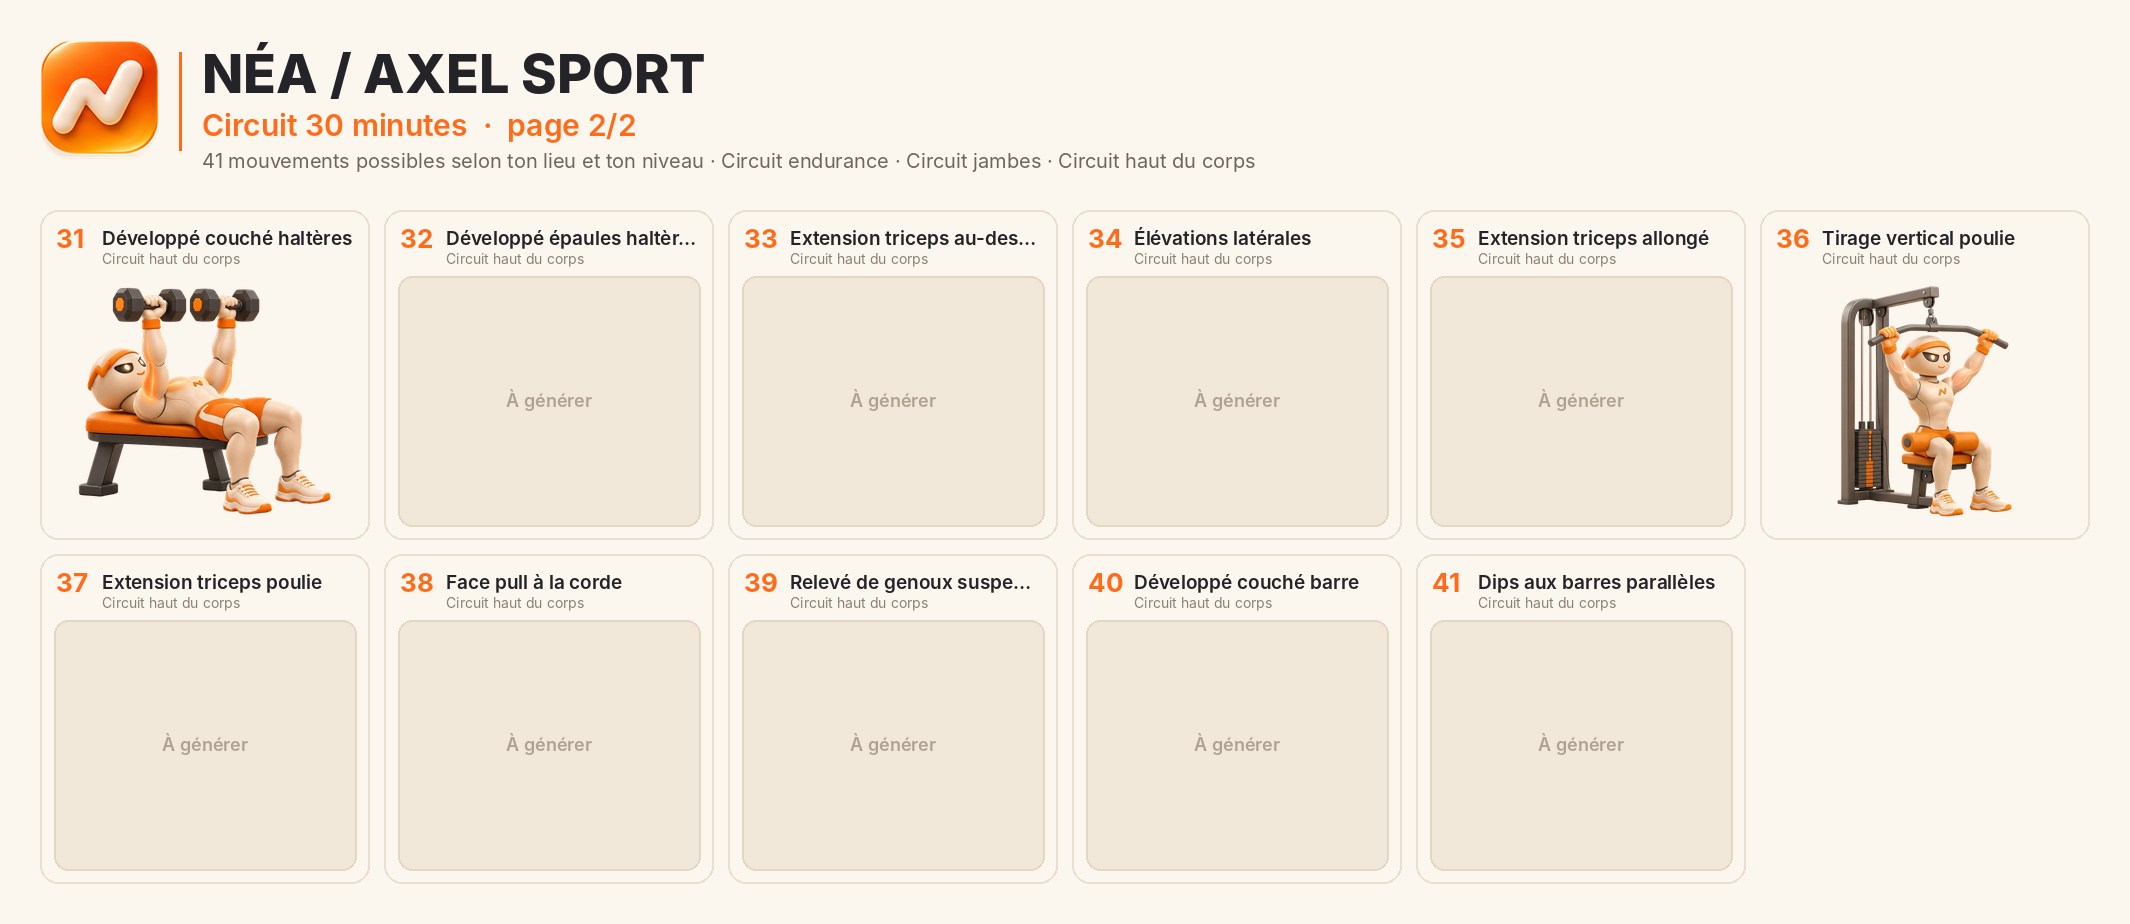
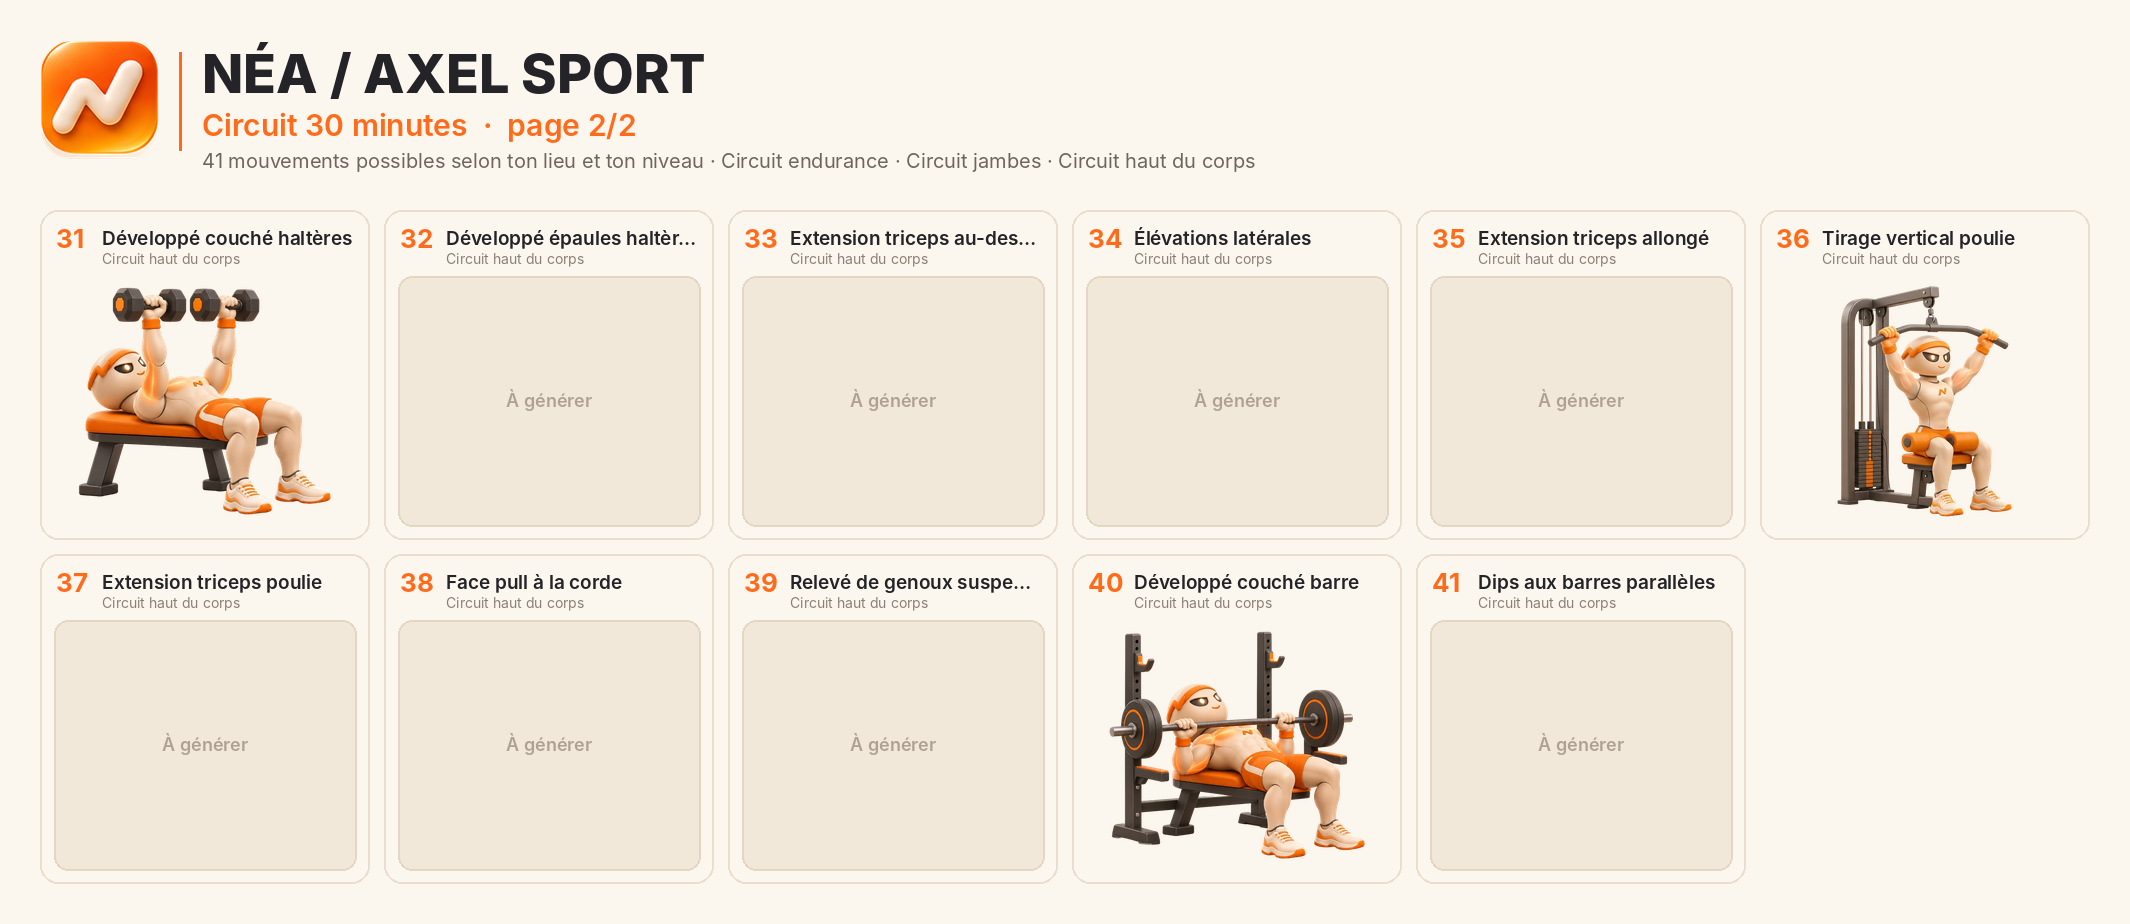
Axel Sport : développé couché barre (ChatGPT), liste des restants tenue à jour par le manifeste
Claude-Session: https://claude.ai/code/session_01MfMeCopMkZb9h8dMnsxXAz

Changed region(s): [[0.4958, 0.6667, 0.6507, 0.9394]]

diff --git a/scripts/axel-sport-manifeste.ts b/scripts/axel-sport-manifeste.ts
@@ -49,4 +49,6 @@ const n = (st: string) => lignes.filter((l) => l.statut === st).length;
 let md = `# Manifeste Axel Sport : exercice → image → statut\n\n${lignes.length} exercices uniques · ${n('valide')} validés · ${n('genere_a_verifier')} générés à vérifier · ${n('a_refaire')} à refaire · ${n('a_generer')} à générer.\n\nLes prompts complets et autonomes sont dans \`manifeste.json\` (champ \`prompt\`).\n\n| # | id | Nom | Fichier | Statut | Vues départ / arrivée | Remarques |\n|---|---|---|---|---|---|---|\n`;
 for (const l of lignes) md += `| ${l.numero} | \`${l.id}\` | ${l.nom} | \`${l.fichier}\` | ${LIB[l.statut]} | ${l.vuesDepartArrivee} | ${l.remarques ?? ''} |\n`;
 writeFileSync('docs/axel-sport/manifeste.md', md);
+// Exercices restants, dans l'ordre (lu par la tâche planifiée quotidienne).
+writeFileSync('docs/axel-sport/a-generer.txt', lignes.filter((l) => l.statut === 'a_generer').map((l) => l.id).join(' ') + '\n');
 console.log(`${lignes.length} exercices : ${n('genere_a_verifier')} générés à vérifier, ${n('a_generer')} à générer`);

diff --git a/src/data/exercicesAxel.ts b/src/data/exercicesAxel.ts
@@ -3,9 +3,10 @@ import type { ImageSourcePropType } from 'react-native';
 
 import type { ExerciceId } from './types';
 
-/** Illustrations Axel Sport déjà produites (4 / 50) ; les autres exercices gardent l'ancienne image. */
+/** Illustrations Axel Sport déjà produites (5 / 50) ; les autres exercices gardent l'ancienne image. */
 export const AXEL_EXERCICE_IMAGES: Readonly<Partial<Record<ExerciceId, ImageSourcePropType>>> = {
   developpe_couche_halteres: require('@/assets/exercices/axel/developpe_couche_halteres.webp'),
+  developpe_couche_barre: require('@/assets/exercices/axel/developpe_couche_barre.webp'),
   pompes: require('@/assets/exercices/axel/pompes.webp'),
   tirage_vertical: require('@/assets/exercices/axel/tirage_vertical.webp'),
   presse_cuisses: require('@/assets/exercices/axel/presse_cuisses.webp'),

diff --git a/docs/axel-sport/manifeste.md b/docs/axel-sport/manifeste.md
@@ -1,6 +1,6 @@
 # Manifeste Axel Sport : exercice → image → statut
 
-50 exercices uniques · 0 validés · 4 générés à vérifier · 0 à refaire · 46 à générer.
+50 exercices uniques · 0 validés · 5 générés à vérifier · 0 à refaire · 45 à générer.
 
 Les prompts complets et autonomes sont dans `manifeste.json` (champ `prompt`).
 
@@ -8,7 +8,7 @@ Les prompts complets et autonomes sont dans `manifeste.json` (champ `prompt`).
 |---|---|---|---|---|---|---|
 | 1 | `developpe_couche_halteres` | Développé couché haltères | `assets/exercices/axel/developpe_couche_halteres.webp` | Généré · à vérifier | prévues (à générer) | Bonne posture (haltères au-dessus de la poitrine, pieds au sol) ; assise du banc orange au lieu de graphite, comme sur la planche des 30 mouvements. |
 | 2 | `developpe_incline_halteres` | Développé incliné haltères | `assets/exercices/axel/developpe_incline_halteres.webp` | À générer | prévues (à générer) |  |
-| 3 | `developpe_couche_barre` | Développé couché barre | `assets/exercices/axel/developpe_couche_barre.webp` | À générer | prévues (à générer) |  |
+| 3 | `developpe_couche_barre` | Développé couché barre | `assets/exercices/axel/developpe_couche_barre.webp` | Généré · à vérifier | prévues (à générer) | Barre basse au niveau de la poitrine, prise un peu plus large que les épaules, pieds au sol : correct ; banc à assise orange ; buste un peu relevé, à vérifier (doit être allongé à plat). |
 | 4 | `ecarte_halteres` | Écarté couché haltères | `assets/exercices/axel/ecarte_halteres.webp` | À générer | prévues (à générer) |  |
 | 5 | `pompes` | Pompes | `assets/exercices/axel/pompes.webp` | Généré · à vérifier | prévues (à générer) | Position haute (bras tendus) au lieu de la poitrine près du sol ; le tapis disparaît au détourage. |
 | 6 | `pompes_inclinees` | Pompes inclinées | `assets/exercices/axel/pompes_inclinees.webp` | À générer | prévues (à générer) |  |

diff --git a/CLAUDE.md b/CLAUDE.md
@@ -124,7 +124,7 @@ jauge d'amplitude, message du coach, voix `expo-speech` chargée seulement si `E
 `docs/axel-sport/` (LISEZMOI, inventaire réel tiré de `buildPlan` sur toutes les combinaisons + 41 séances prêtes, manifeste avec un prompt par exercice,
 journal des générations, références, planches par programme et catalogue) ; images dans `assets/exercices/axel/<id>.webp` (détourées, transparentes),
 `src/data/exercicesAxel.ts` généré par `scripts/axel-sport-integrer.ts`, `EXERCICE_IMAGES` = Axel si présent sinon l'ancienne image (repli) ;
-**4 / 50 produites** (pompes, presse à cuisses, tirage vertical via ElevenLabs ; développé couché haltères via ChatGPT ; à vérifier), le reste bloqué par la limite quotidienne d'images du plan gratuit ElevenLabs ;
+**5 / 50 produites** (pompes, presse à cuisses, tirage vertical via ElevenLabs ; développés couchés haltères et barre via ChatGPT ; à vérifier), le reste bloqué par la limite quotidienne d'images du plan gratuit ElevenLabs ;
 ne pas publier tant que la bibliothèque mélange anciennes et nouvelles images.
 
 **Navigation principale (design 10K « Navigation principale », process-tab-bar, oct. 2026)** : `TabBar` refaite (paquet vérifié, 406 empreintes ;

diff --git a/docs/axel-sport/prompts-chatgpt.md b/docs/axel-sport/prompts-chatgpt.md
@@ -58,7 +58,7 @@ Lueur orange uniquement sur : upper chest, front deltoids.
 Respecte toutes les règles de la mise en place (Axel identique à la planche, fond ivoire uni, carré, tout visible, aucun texte).
 ```
 
-### 03. Développé couché barre → `developpe_couche_barre.png`
+### 03. Développé couché barre → `developpe_couche_barre.png` · déjà fait (à refaire si la posture ne va pas)
 
 ```
 Exercice : Développé couché barre.
